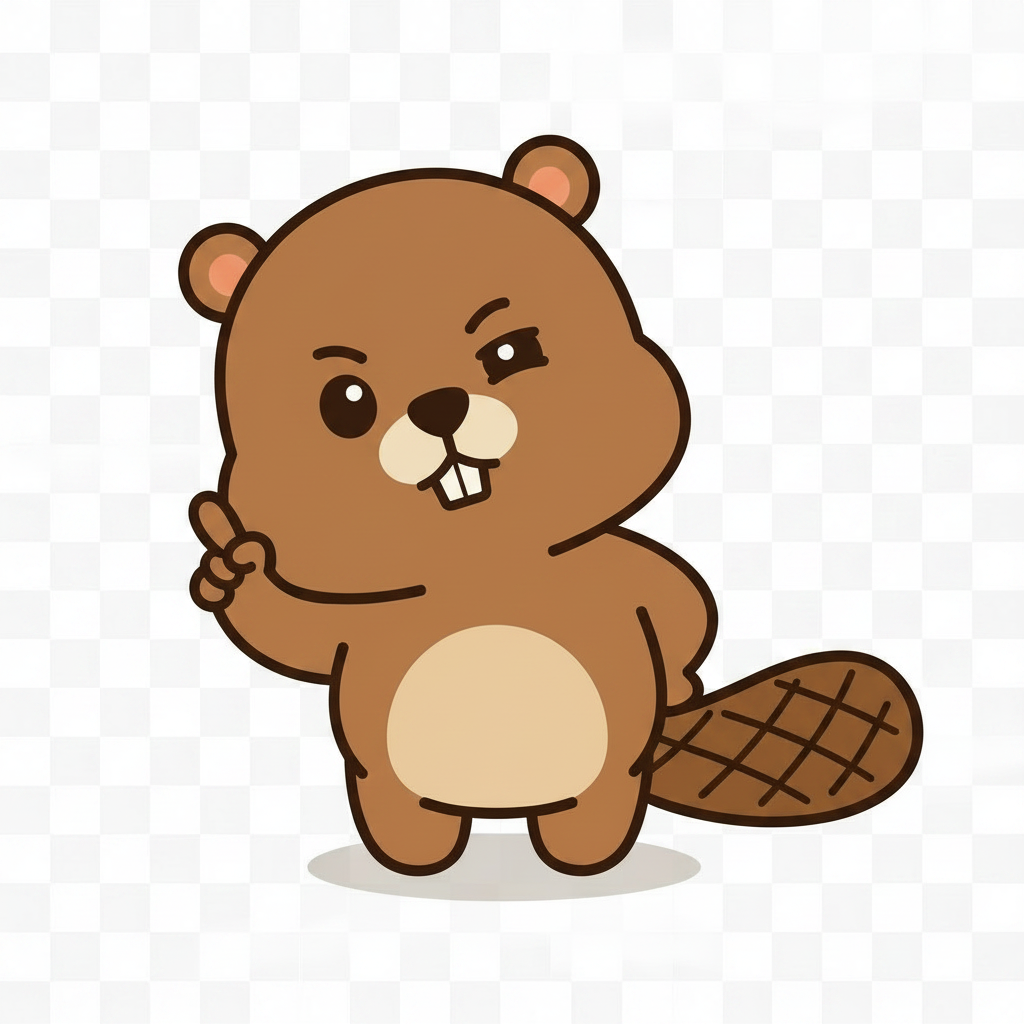
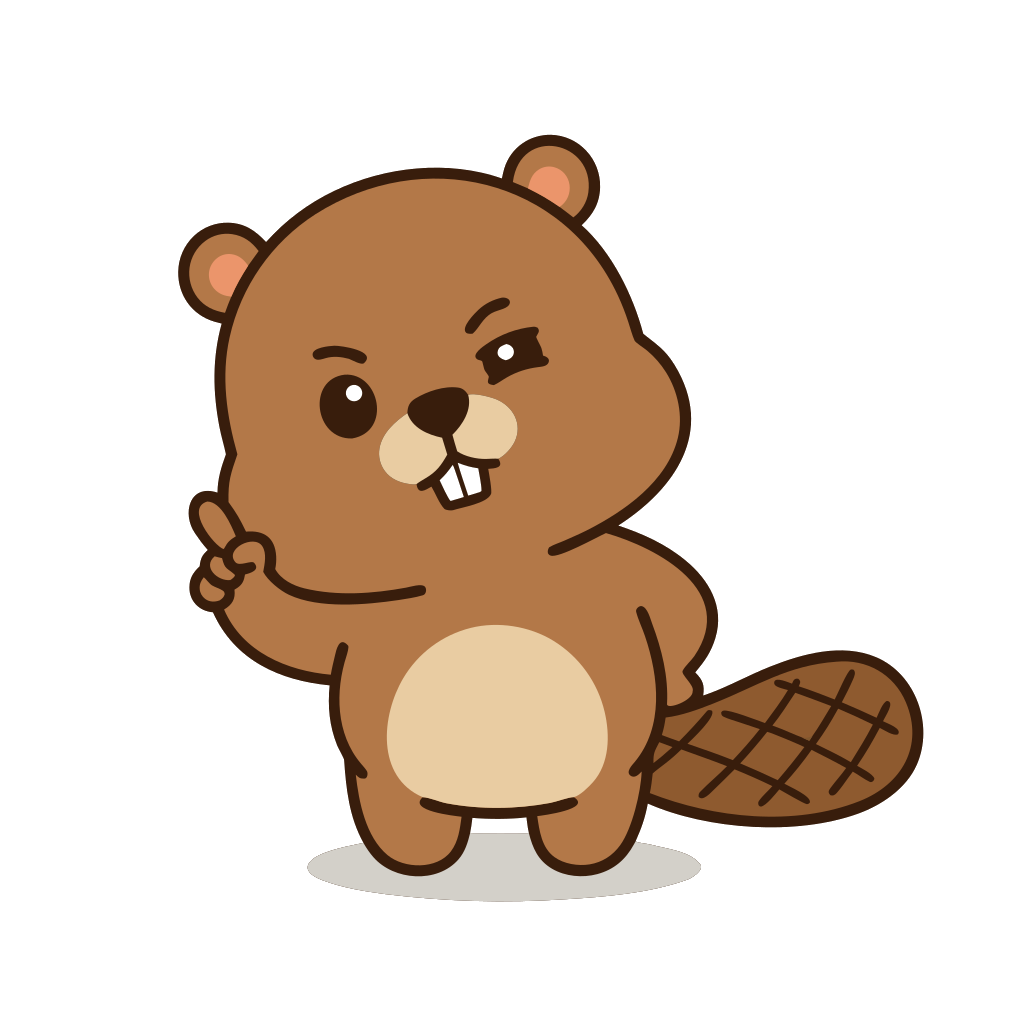
fix(biji): 새 비지 11장 흰배경 → 투명 + /biji-motion 데모 페이지
전수조사로 alpha 채널 없는 11장 발견(Recraft 출력이 white rect 박힘):
clock-sigh·cheer-cocky·shrug-sigh·think-cool·crying-sigh·wallet-empty·running
·car·transit·binoculars·smile-wave. biji-key·biji-calendar 2장만 이미 투명.

처리: scripts/process-biji-singles.cjs의 floodAndFeather 룰 그대로 적용
(코너 flood-fill HARD 246 + edge feathering SOFT 210). 11장 전부 corner_alpha=0
검증 ✅. 코랄 그라데이션 위에 비지가 자연스럽게 박힘(Plan 페이지 확인).

추가: /biji-motion 임시 데모 페이지 — 모바일에서 달리는 비지 비디오 모션
단독 확인용. robots noindex. 합격 후 삭제 예정.

Changed region(s): [[0.375, 0.375, 0.5, 0.5]]

diff --git a/src/app/biji-motion/page.tsx b/src/app/biji-motion/page.tsx
@@ -1,0 +1,50 @@
+// 임시 — 달리는 비지 모션 모바일 확인용 데모 페이지.
+// 합격 후 삭제 약속. 라우트 /biji-motion.
+
+export const metadata = {
+  title: "달리는 비지 — 모션 시범",
+  robots: { index: false, follow: false }, // 검색 노출 X
+};
+
+export default function BijiMotionDemoPage() {
+  return (
+    <main
+      className="flex min-h-screen flex-col items-center justify-center gap-6 px-6 py-12 text-white"
+      style={{
+        background:
+          "linear-gradient(135deg,#ff8a5c 0%,#fe7644 55%,#e8662f 100%)",
+      }}
+    >
+      <p className="text-[12px] font-semibold uppercase tracking-wider text-white/80">
+        Round 3 시범
+      </p>
+      <h1 className="font-jua text-3xl leading-tight">달리는 비지 · 모션</h1>
+
+      <video
+        autoPlay
+        loop
+        muted
+        playsInline
+        width={280}
+        height={280}
+        className="drop-shadow-2xl"
+        style={{ borderRadius: 32, background: "rgba(255,255,255,0.08)" }}
+        aria-label="달리는 비지 비디오"
+      >
+        <source src="/biji/biji-running.mp4" type="video/mp4" />
+      </video>
+
+      <div className="max-w-[280px] space-y-2 text-center text-[13px] leading-relaxed text-white/90">
+        <p>
+          PixVerse 5.5 image-to-video · 652KB · 자동 재생 · 무음 · 무한 루프
+        </p>
+        <p className="text-white/70">
+          비디오 안 보이면 reduce-motion 끄고 새로고침.
+        </p>
+        <p className="text-[11px] text-white/55">
+          합격이면 나머지 11장 같은 방식으로 확장 — 이 페이지는 합격 후 삭제.
+        </p>
+      </div>
+    </main>
+  );
+}
